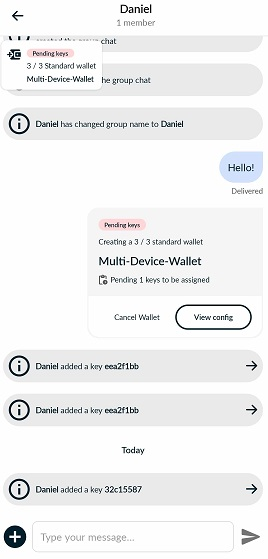
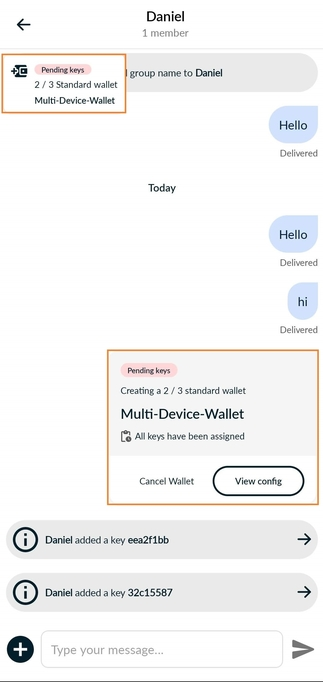
Fixing mobile screenshots

diff --git a/content/getting-started/multiDeviceMultiSig/_index.en.md b/content/getting-started/multiDeviceMultiSig/_index.en.md
@@ -128,7 +128,7 @@ If you did not have all your keys available for the initial setup, you can conti
 
 1. Open your Nunchuk mobile app and navigate to the chat screen. You should see your wallet config notification here waiting for the last key!<br/><br/>
 
-<img src = mobileChatScreen.png
+<img src = mobilePendingKey.png
     alt = "mobile app chat screen (Screenshot)">
 
 2. Click on the "View config" button.<br/><br/>
@@ -148,15 +148,9 @@ If you did not have all your keys available for the initial setup, you can conti
 6. You should be returned to the chat screen. You should now see the wallet config notification says "Pending finalization". On any of your devices you can open the config again by clicking the "View Config" and then the "Finalize wallet" button!<br/><br/>
 
 <img src = mobileAllKeysAssigned.png
-    alt = "mobile phone chat screen (Screenshot)"
-    style = "float: left"/>
+    alt = "mobile phone chat screen (Screenshot)">
 
-<img src = desktopFinalizeWallet.png
-    alt = "finalize wallet (Screenshot)">
-    <br/><br/><br/><br/><br/><br/><br/><br/><br/><br/><br/><br/><br/>
-
-
-7. You will see all of the keys associated with the wallet and other important information. Click the "Finalize wallet" button once you're sure everything is correct.<br/><br/>
+7. You will now be able to see the finalize button. When you click that button you will see all of the keys associated with the wallet and other important information. Click the "Finalize wallet" button once you're sure everything is correct.<br/><br/>
 
 <img src = desktopFinalizeWalletConfig.png
     alt = "desktop wallet config (Screenshot)">
@@ -173,6 +167,5 @@ It is highly recommended to back up your wallet (noted in red, above). There are
 
 {{< /tab >}}
 {{</ tabs >}}
-
 
 Typically for collaborative wallets, the rule is that the creator of the wallet has to be the one to finalize it. However, for self-managed multisig, the wallet can be finalized from any device (since it's the same user). Once you have added all the required keys to your wallet, you will see a "Finalize wallet" button in the chat screen. You can click that on any device and finalize the wallet! Be sure to look for the backup option in the chat screen and <u>make a backup!</u>
